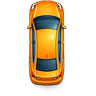
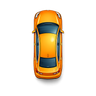
design: top-down vehicle markers for Mapbox (user-provided)
User provided hi-res (1024x1024) top-down renders of Auto, Moto,
Triciclo, and the classic Almendron — perfect for in-map vehicle
markers during rides. All transparent-bg PNGs.

scripts/process-topdown-markers.js resizes them to the Mapbox marker
spec (48/96/144 px for @1x/@2x/@3x densities) and writes into BOTH
apps:

- apps/driver/assets/vehicles/markers/{auto,moto,triciclo,auto_clasico}.png
- apps/client/assets/vehicles/markers/{auto,moto,triciclo,auto_clasico}.png

auto_clasico reserved for the Almendron if we ever add a 'Clásico'
service tier in the map. For now it sits next to the others, ready.

Wiring into RideMapView as the actual marker images comes with the
client home refactor (next commits).

Changed region(s): [[0.2812, 0.0, 0.7188, 0.9375]]

diff --git a/scripts/process-topdown-markers.js b/scripts/process-topdown-markers.js
@@ -1,0 +1,58 @@
+#!/usr/bin/env node
+// Process top-down vehicle marker images (from Downloads/img/) into
+// 48/96/144 density variants for driver + client apps.
+//
+// Run: node scripts/process-topdown-markers.js
+
+const sharp = require('sharp');
+const path = require('path');
+const fs = require('fs');
+
+const SRC_DIR = 'C:\\Users\\Eduardo\\Downloads\\img';
+const APPS = [
+  'apps/driver/assets/vehicles/markers',
+  'apps/client/assets/vehicles/markers',
+];
+
+const SIZES = [
+  { suffix: '', size: 48 },
+  { suffix: '@2x', size: 96 },
+  { suffix: '@3x', size: 144 },
+];
+
+// Source filename → target basename
+const MARKERS = {
+  auto: 'Auto Para marcador del mapa (vista desde arriba).png',
+  moto: 'Moto Para marcador del mapa (vista desde arriba).png',
+  triciclo: 'Triciclo Para marcador del mapa (vista desde arriba).png',
+  // Almendron is a separate vehicle icon — save it as `auto_clasico` marker
+  // for the classic Cuban car service tier if used in map later.
+  auto_clasico: 'Almendron Para marcador del mapa (vista desde arriba).png',
+};
+
+async function main() {
+  for (const [name, srcName] of Object.entries(MARKERS)) {
+    const srcPath = path.join(SRC_DIR, srcName);
+    if (!fs.existsSync(srcPath)) {
+      console.log(`[skip] ${srcName} — not found`);
+      continue;
+    }
+    for (const app of APPS) {
+      for (const { suffix, size } of SIZES) {
+        const outPath = path.join(app, `${name}${suffix}.png`);
+        await sharp(srcPath)
+          .resize(size, size, {
+            fit: 'contain',
+            kernel: 'lanczos3',
+            background: { r: 0, g: 0, b: 0, alpha: 0 },
+          })
+          .png({ compressionLevel: 9 })
+          .toFile(outPath);
+      }
+      console.log(`✓ ${app}/${name}.png (3 sizes)`);
+    }
+  }
+  console.log('\nDone.');
+}
+
+main().catch((e) => { console.error(e); process.exit(1); });

diff --git a/scripts/check-markers.js b/scripts/check-markers.js
@@ -1,0 +1,16 @@
+const s = require('sharp');
+const path = require('path');
+const files = [
+  'Almendron Para marcador del mapa (vista desde arriba).png',
+  'Auto Para marcador del mapa (vista desde arriba).png',
+  'Moto Para marcador del mapa (vista desde arriba).png',
+  'Triciclo Para marcador del mapa (vista desde arriba).png',
+];
+(async () => {
+  for (const f of files) {
+    const p = path.join('C:', 'Users', 'Eduardo', 'Downloads', 'img', f);
+    const m = await s(p).metadata();
+    const { data } = await s(p).extract({ left: 5, top: 5, width: 1, height: 1 }).ensureAlpha().raw().toBuffer({ resolveWithObject: true });
+    console.log(f.split(' ')[0], m.width+'x'+m.height, m.channels+'ch', 'corner rgba:', data[0], data[1], data[2], data[3]);
+  }
+})();
